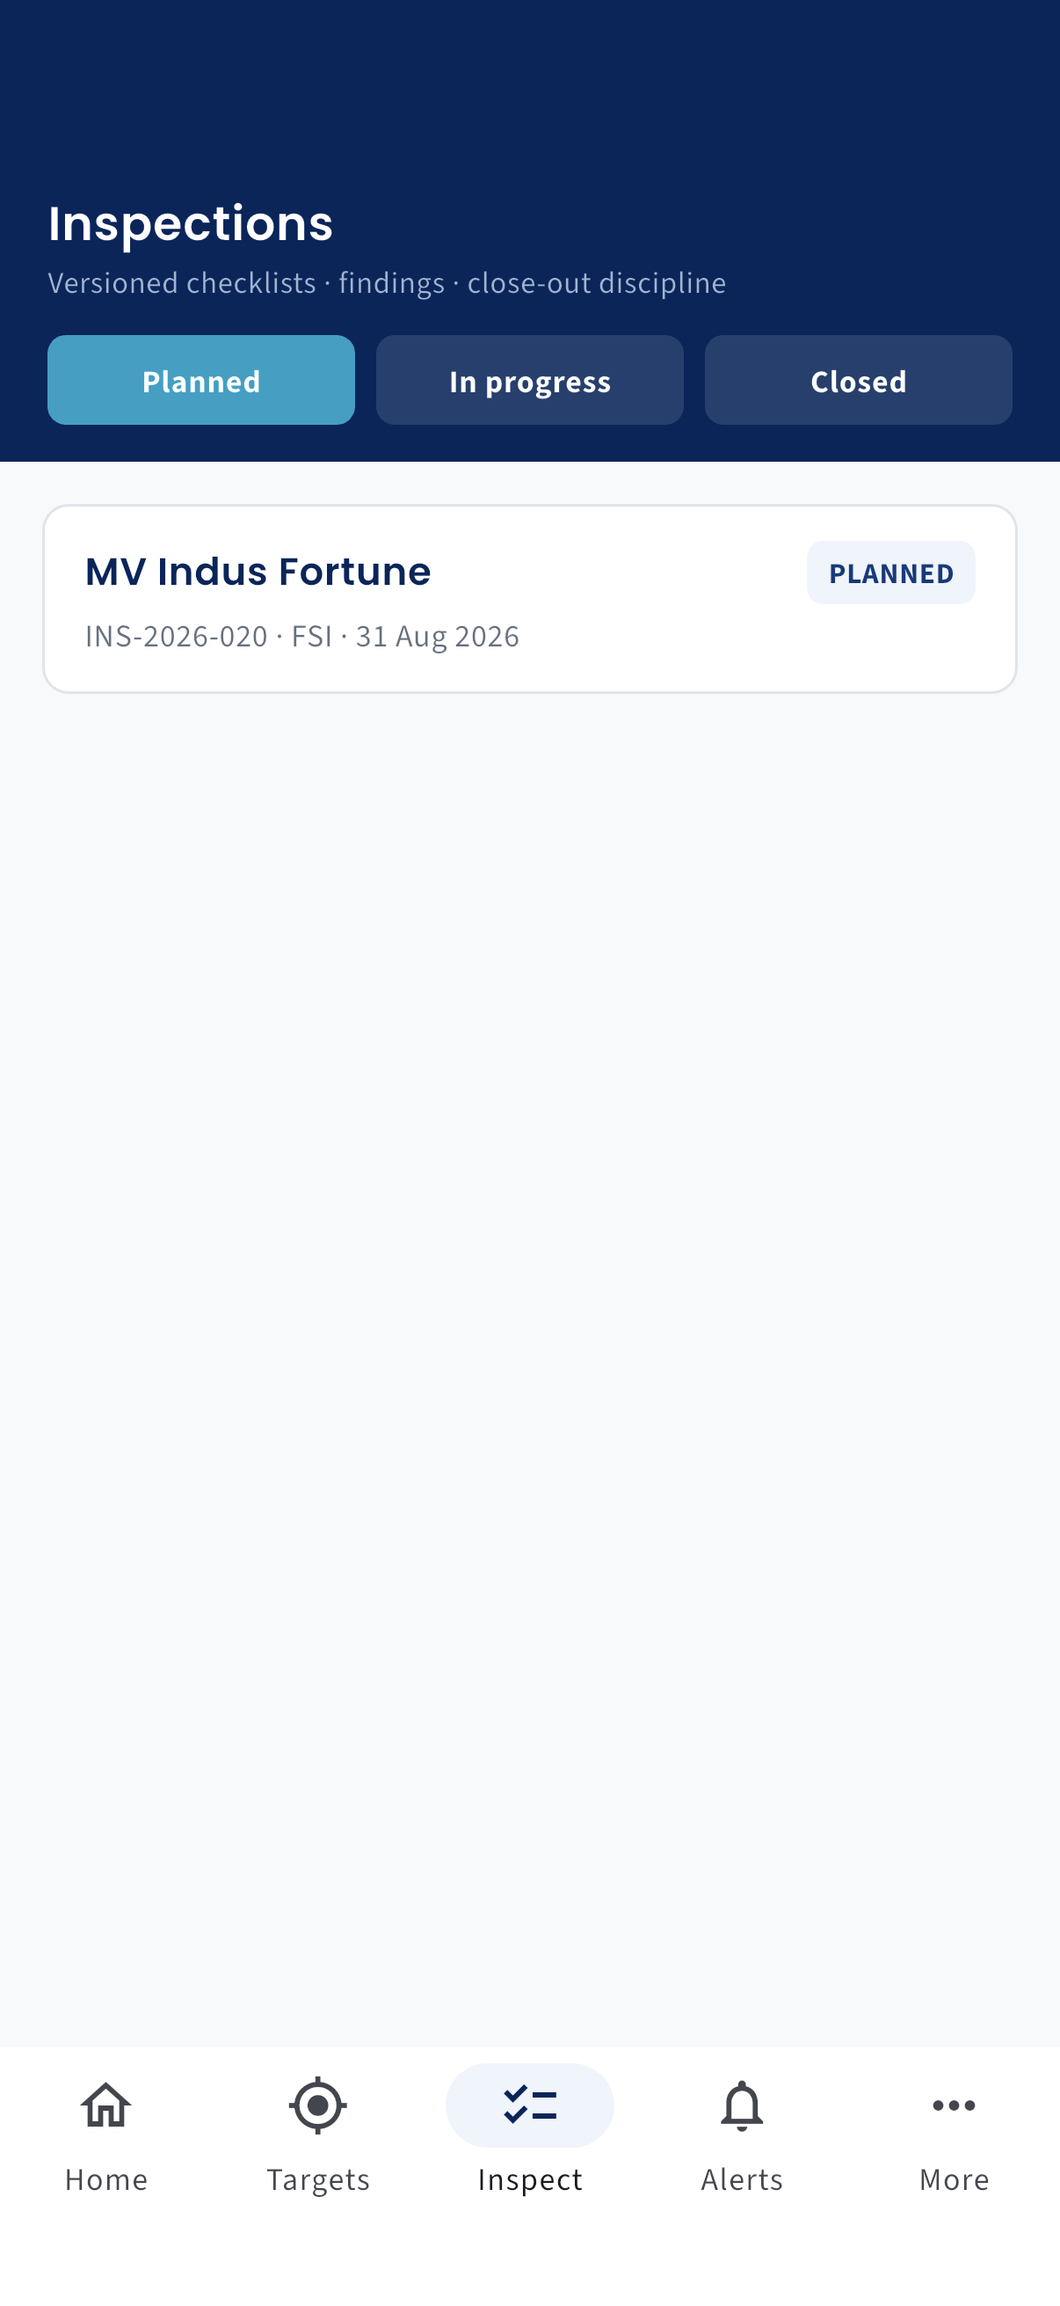
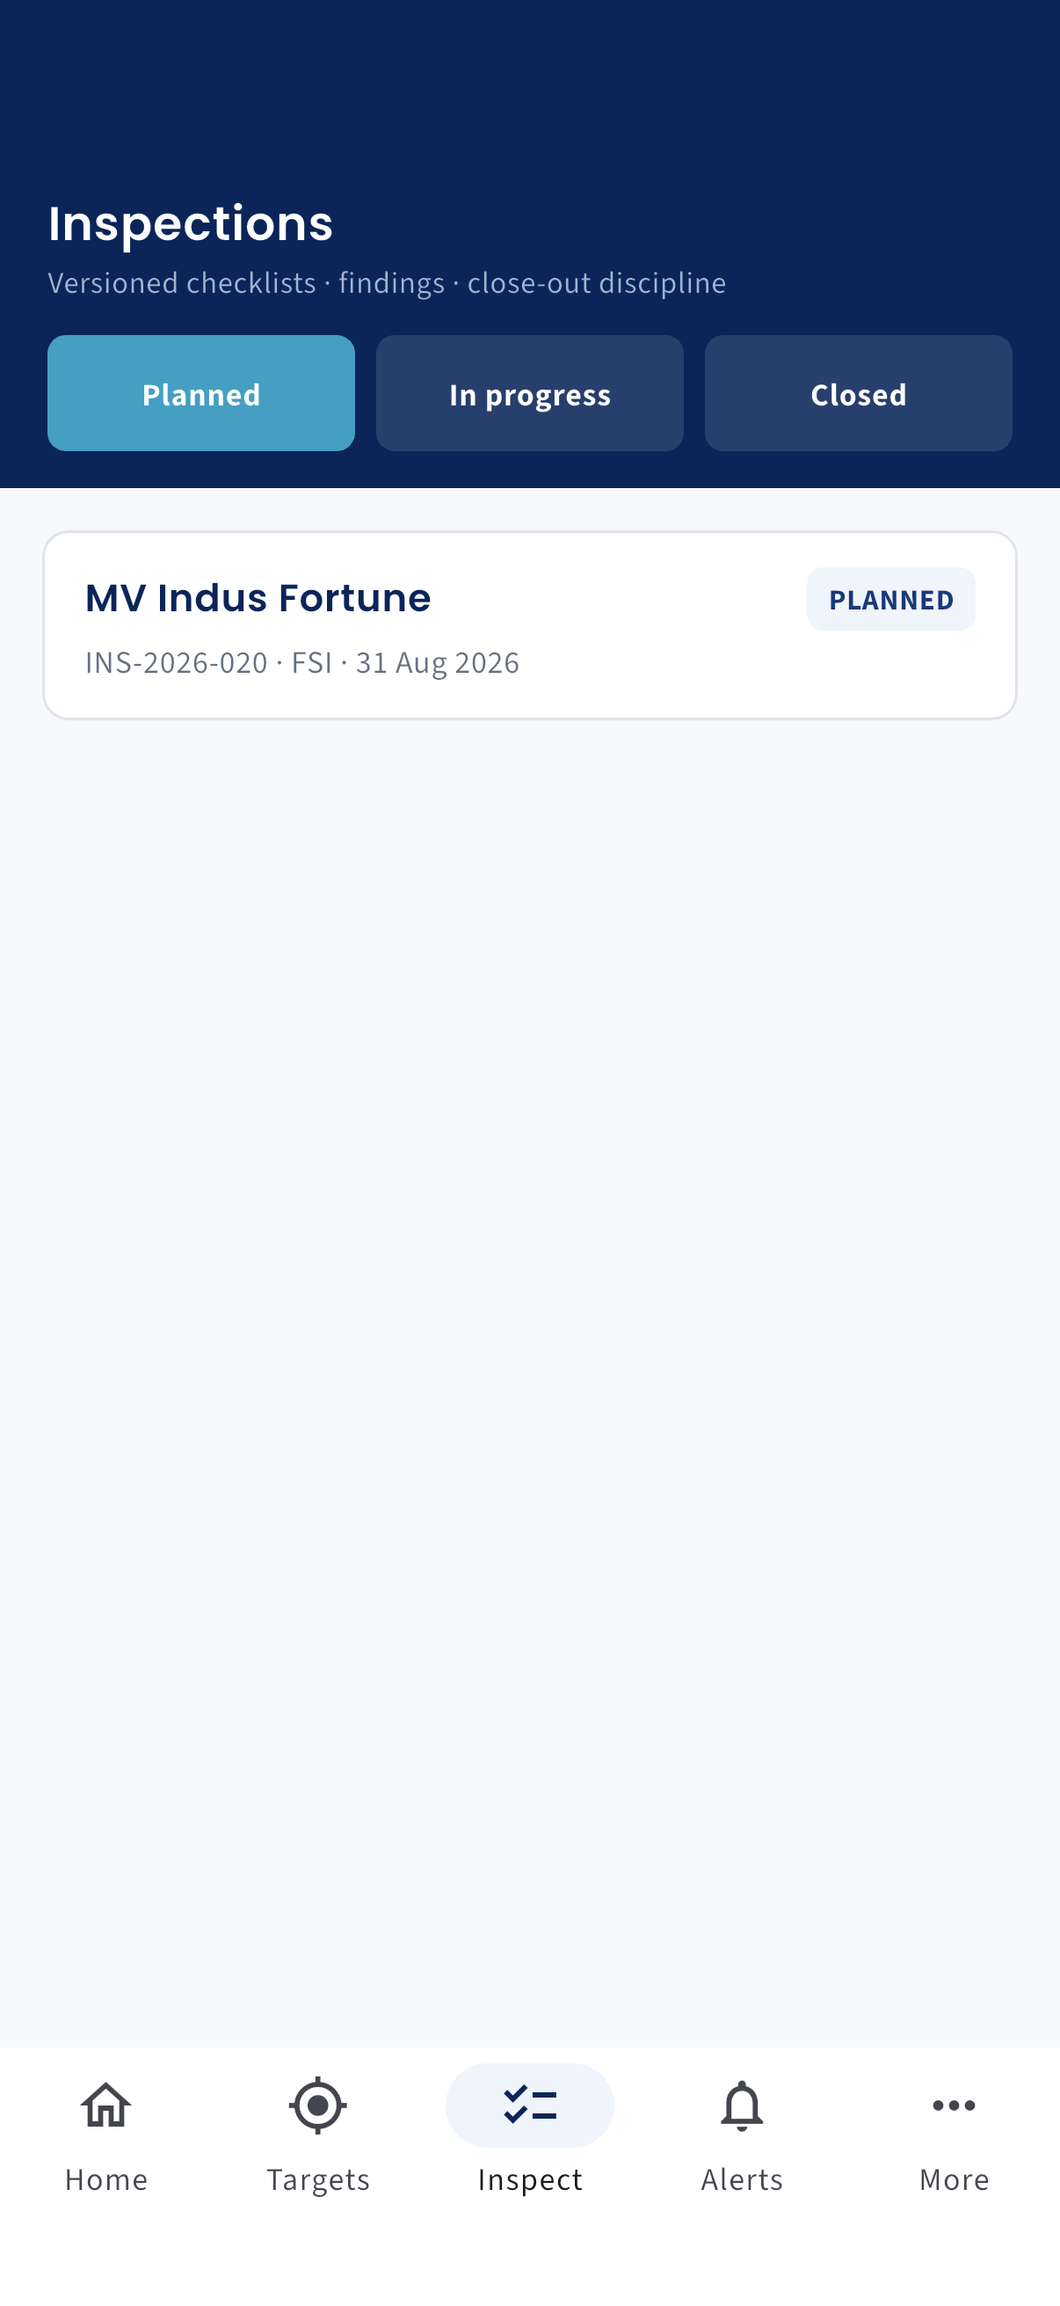
Security + accessibility hardening from the SAST/DAST/WCAG audit
Mobile app (SAST + WCAG 2.1 AA):
- Cleartext base URL gated to debug builds; production requires an https
  API_BASE via --dart-define. Android network-security-config: TLS-only
  release, dev hosts permitted only in debug. Demo password no longer
  prefilled.
- API client: single-flight JWT refresh (concurrent 401s share one attempt
  so a rotated refresh token can't force a spurious logout); path segments
  percent-encoded.
- Contrast: status-chip text now uses AA on-tint tokens (amber/green/red),
  cyan text labels moved to cyan700, hint text to gray500, input borders to
  a 3:1 boundary token. Hit targets raised to 44pt (checklist segments,
  filter pills). Tappable cards and the AI badge exposed to screen readers;
  text scaling clamped to 1.3x.

Platform API (DAST — object-level authorization):
- serviceController: applicant roles are now scoped to their own requests on
  GET /services/requests regardless of the mine param, and GET
  /services/requests/:id 404s a record the caller doesn't own — staff
  assessors (services.assess) are unaffected. Verified: agent list 55->6,
  foreign read 200->404, surveyor still sees all 55.
- invoiceController: documented the remaining invoice-list scoping gap (needs
  a user->organisation data-model link; the client already passes filters).

12/12 integration tests still green on the simulator after the changes.

Changed region(s): [[0.0, 0.1545, 1.0, 0.3089], [0.767, 0.2471, 0.8897, 0.278]]

diff --git a/mobile-flutter/lib/widgets.dart b/mobile-flutter/lib/widgets.dart
@@ -94,11 +94,18 @@ class StatTile extends StatelessWidget {
 }
 
 class MobCard extends StatelessWidget {
-  const MobCard({super.key, required this.child, this.onTap, this.borderColor, this.padding});
+  const MobCard(
+      {super.key,
+      required this.child,
+      this.onTap,
+      this.borderColor,
+      this.padding,
+      this.semanticLabel});
   final Widget child;
   final VoidCallback? onTap;
   final Color? borderColor;
   final EdgeInsets? padding;
+  final String? semanticLabel;
 
   @override
   Widget build(BuildContext context) {
@@ -113,9 +120,13 @@ class MobCard extends StatelessWidget {
       child: child,
     );
     if (onTap == null) return card;
-    return Material(
-      color: Colors.transparent,
-      child: InkWell(borderRadius: BorderRadius.circular(10), onTap: onTap, child: card),
+    return Semantics(
+      button: true,
+      label: semanticLabel,
+      child: Material(
+        color: Colors.transparent,
+        child: InkWell(borderRadius: BorderRadius.circular(10), onTap: onTap, child: card),
+      ),
     );
   }
 }
@@ -150,9 +161,9 @@ class StatusChip extends StatelessWidget {
     final (bg, fg) = switch (tone) {
       ChipTone.info => (Mob.navy50, Mob.navy700),
       ChipTone.ai => (Mob.cyan50, Mob.cyan700),
-      ChipTone.success => (Mob.green50, Mob.green600),
-      ChipTone.warning => (Mob.amber50, Mob.amber600),
-      ChipTone.danger => (Mob.red50, Mob.red600),
+      ChipTone.success => (Mob.green50, Mob.greenOnTint),
+      ChipTone.warning => (Mob.amber50, Mob.amberOnTint),
+      ChipTone.danger => (Mob.red50, Mob.redOnTint),
       ChipTone.neutral => (Mob.gray100, Mob.gray500),
     };
     return Container(
@@ -244,10 +255,13 @@ class AiCard extends StatelessWidget {
       child: Row(
         crossAxisAlignment: CrossAxisAlignment.start,
         children: [
-          Container(
-            width: 26, height: 26,
-            decoration: BoxDecoration(color: Mob.cyan600, borderRadius: BorderRadius.circular(6)),
-            child: const Icon(Icons.auto_awesome, size: 14, color: Colors.white),
+          Semantics(
+            label: 'AI-generated',
+            child: Container(
+              width: 26, height: 26,
+              decoration: BoxDecoration(color: Mob.cyan600, borderRadius: BorderRadius.circular(6)),
+              child: const Icon(Icons.auto_awesome, size: 14, color: Colors.white),
+            ),
           ),
           const SizedBox(width: 10),
           Expanded(child: child),

diff --git a/mobile-flutter/lib/api/api_client.dart b/mobile-flutter/lib/api/api_client.dart
@@ -26,6 +26,7 @@ class ApiClient {
   final String baseUrl;
   String? _token;
   String? _refreshToken;
+  Future<bool>? _refreshing;
 
   /// Called whenever a login/refresh returns a fresh user payload.
   void Function(Map<String, dynamic> user)? onUser;
@@ -35,8 +36,20 @@ class ApiClient {
 
   bool get hasSession => _token != null;
 
+  /// Production base is injected at build time (`--dart-define=API_BASE=...`,
+  /// which MUST be https). Only debug builds fall back to the local dev API
+  /// over cleartext.
   static String defaultBaseUrl() {
-    // The Android emulator reaches the host machine via 10.0.2.2.
+    const configured = String.fromEnvironment('API_BASE');
+    if (configured.isNotEmpty) return configured;
+    assert(() {
+      return true;
+    }());
+    if (!kDebugMode) {
+      throw StateError(
+          'API_BASE must be provided (https) for non-debug builds — '
+          'the cleartext localhost fallback is debug-only.');
+    }
     if (!kIsWeb && Platform.isAndroid) return 'http://10.0.2.2:5200/api';
     return 'http://127.0.0.1:5200/api';
   }
@@ -46,8 +59,17 @@ class ApiClient {
         if (_token != null) 'Authorization': 'Bearer $_token',
       };
 
-  Uri _uri(String path, [Map<String, String>? query]) =>
-      Uri.parse('$baseUrl$path').replace(queryParameters: query);
+  Uri _uri(String path, [Map<String, String>? query]) {
+    // Percent-encode each dynamic path segment so an unexpected id value
+    // (containing '/', '?', '#', '..') cannot steer the request path.
+    final encoded = path
+        .split('/')
+        .map((seg) => seg.contains(':') || seg.isEmpty
+            ? seg
+            : Uri.encodeComponent(Uri.decodeComponent(seg)))
+        .join('/');
+    return Uri.parse('$baseUrl$encoded').replace(queryParameters: query);
+  }
 
   Future<Map<String, dynamic>> login(String email, String password) async {
     final data = await _request('POST', '/auth/login',
@@ -68,7 +90,13 @@ class ApiClient {
     if (user is Map<String, dynamic>) onUser?.call(user);
   }
 
-  Future<bool> _tryRefresh() async {
+  /// Single-flight: concurrent 401s share one refresh attempt so a rotated
+  /// refresh token cannot make a losing racer tear down a just-renewed session.
+  Future<bool> _tryRefresh() {
+    return _refreshing ??= _doRefresh().whenComplete(() => _refreshing = null);
+  }
+
+  Future<bool> _doRefresh() async {
     final rt = _refreshToken;
     if (rt == null) return false;
     try {

diff --git a/portal/backend/src/controllers/serviceController.js b/portal/backend/src/controllers/serviceController.js
@@ -9,6 +9,7 @@ const { REQUEST_TRANSITIONS } = require('../config/constants');
 const { ApiError, ok, created } = require('../utils/respond');
 const { parseQuery, searchFilter } = require('../utils/paginate');
 const { audit } = require('../utils/audit');
+const { hasPerm } = require('../domain/rbac');
 const { nextNumber } = require('../utils/numbering');
 const S = require('../domain/licenceSubjects');
 const { finaliseIssue } = require('../domain/instrumentIssue');
@@ -75,7 +76,13 @@ exports.list = async (req, res) => {
     if (req.query[f]) filter[f] = req.query[f];
   }
   if (req.query.domain) filter.domain = Number(req.query.domain);
-  if (req.query.mine === 'true') filter['applicant.userId'] = String(req.user.id);
+  // Object-level authorization: a caller who cannot assess (an applicant role)
+  // only ever sees their own applications, regardless of the mine param. Staff
+  // assessors may list across applicants and may opt into mine=true.
+  const canAssess = hasPerm(req.user.perms, 'services.assess');
+  if (!canAssess || req.query.mine === 'true') {
+    filter['applicant.userId'] = String(req.user.id);
+  }
   if (req.query.open === 'true') filter.status = { $in: ['SUBMITTED', 'UNDER_ASSESSMENT', 'INFO_REQUESTED'] };
   if (req.query.breached === 'true') { filter.closedAt = null; filter.dueAt = { $lt: new Date() }; }
   const search = searchFilter(req.query.q, ['requestNo', 'applicant.name', 'subjectLabel', 'serviceName']);
@@ -93,6 +100,11 @@ exports.list = async (req, res) => {
 exports.get = async (req, res) => {
   const doc = await ServiceRequest.findById(req.params.id).populate('service').lean();
   if (!doc) throw new ApiError(404, 'Request not found');
+  // Direct-object-reference guard: an applicant may only read their own request.
+  const canAssess = hasPerm(req.user.perms, 'services.assess');
+  if (!canAssess && String(doc.applicant?.userId) !== String(req.user.id)) {
+    throw new ApiError(404, 'Request not found');
+  }
   doc.slaBreached = !!(doc.dueAt && !doc.closedAt && new Date(doc.dueAt) < new Date());
   ok(res, doc);
 };

diff --git a/mobile-flutter/lib/theme.dart b/mobile-flutter/lib/theme.dart
@@ -9,7 +9,7 @@ class Mob {
   static const navy800 = Color(0xFF00265D); // primary
   static const navy700 = Color(0xFF0A3A7D);
   static const navy50 = Color(0xFFEEF4FB);
-  static const cyan700 = Color(0xFF007A9B);
+  static const cyan700 = Color(0xFF007A9B); // 4.93:1 on white — cyan TEXT
   static const cyan600 = Color(0xFF00A0C6); // accent / AI
   static const cyan100 = Color(0xFFD3F0F8);
   static const cyan50 = Color(0xFFEAF8FC);
@@ -24,13 +24,17 @@ class Mob {
   static const gray100 = Color(0xFFEEF1F5);
   static const gray50 = Color(0xFFF7F9FB);
 
-  // Semantic
+  // Semantic — 600 = surface/icon fill; onTint = AA text on the 50 tint
   static const green600 = Color(0xFF1E8E5A);
   static const green50 = Color(0xFFE7F6EE);
+  static const greenOnTint = Color(0xFF12703F); // 5.4:1 on green50
   static const amber600 = Color(0xFFB9770E);
   static const amber50 = Color(0xFFFDF3E1);
+  static const amberOnTint = Color(0xFF8A5800); // 4.9:1 on amber50
   static const red600 = Color(0xFFC43D3D);
   static const red50 = Color(0xFFFBEAEA);
+  static const redOnTint = Color(0xFFB02525); // 5.1:1 on red50
+  static const inputBorder = Color(0xFF8792A3); // 3:1 non-text boundary
 
   // On-navy
   static const onNavyMuted = Color(0xFF9FB4D4);
@@ -73,14 +77,14 @@ ThemeData mobTheme() {
       ),
       enabledBorder: OutlineInputBorder(
         borderRadius: BorderRadius.circular(8),
-        borderSide: const BorderSide(color: Mob.gray300),
+        borderSide: const BorderSide(color: Mob.inputBorder),
       ),
       focusedBorder: OutlineInputBorder(
         borderRadius: BorderRadius.circular(8),
         borderSide: const BorderSide(color: Mob.cyan600, width: 1.5),
       ),
       labelStyle: ss(13, c: Mob.gray500),
-      hintStyle: ss(13, c: Mob.gray400),
+      hintStyle: ss(13, c: Mob.gray500),
     ),
     snackBarTheme: SnackBarThemeData(
       backgroundColor: Mob.navy800,

diff --git a/mobile-flutter/lib/authority/dossier_screen.dart b/mobile-flutter/lib/authority/dossier_screen.dart
@@ -99,7 +99,7 @@ class _DossierScreenState extends State<DossierScreen> {
                       child: Column(
                         crossAxisAlignment: CrossAxisAlignment.start,
                         children: [
-                          Text('SUMMARY', style: pop(12, c: Mob.cyan600).copyWith(letterSpacing: .8)),
+                          Text('SUMMARY', style: pop(12, c: Mob.cyan700).copyWith(letterSpacing: .8)),
                           const SizedBox(height: 7),
                           Text(
                             _summary(v, d.risk, expired, expiring, inspections),
@@ -114,7 +114,7 @@ class _DossierScreenState extends State<DossierScreen> {
                         child: Column(
                           crossAxisAlignment: CrossAxisAlignment.start,
                           children: [
-                            Text('FOCUS AREAS', style: pop(12, c: Mob.cyan600).copyWith(letterSpacing: .8)),
+                            Text('FOCUS AREAS', style: pop(12, c: Mob.cyan700).copyWith(letterSpacing: .8)),
                             const SizedBox(height: 8),
                             for (final (i, f) in factors.take(4).indexed)
                               Padding(
@@ -143,7 +143,7 @@ class _DossierScreenState extends State<DossierScreen> {
                         child: Column(
                           crossAxisAlignment: CrossAxisAlignment.start,
                           children: [
-                            Text('INSPECTION HISTORY', style: pop(12, c: Mob.cyan600).copyWith(letterSpacing: .8)),
+                            Text('INSPECTION HISTORY', style: pop(12, c: Mob.cyan700).copyWith(letterSpacing: .8)),
                             const SizedBox(height: 6),
                             for (final insp in inspections.take(5))
                               Padding(

diff --git a/mobile-flutter/lib/customer/track_screen.dart b/mobile-flutter/lib/customer/track_screen.dart
@@ -122,7 +122,7 @@ class _TrackScreenState extends State<TrackScreen> {
                             crossAxisAlignment: CrossAxisAlignment.start,
                             children: [
                               Text('ELIGIBILITY CHECKS',
-                                  style: pop(12, c: Mob.cyan600).copyWith(letterSpacing: .8)),
+                                  style: pop(12, c: Mob.cyan700).copyWith(letterSpacing: .8)),
                               const SizedBox(height: 8),
                               for (final c in checks)
                                 Padding(
@@ -162,7 +162,7 @@ class _TrackScreenState extends State<TrackScreen> {
                             children: [
                               Row(children: [
                                 Text('DECISION',
-                                    style: pop(12, c: Mob.cyan600).copyWith(letterSpacing: .8)),
+                                    style: pop(12, c: Mob.cyan700).copyWith(letterSpacing: .8)),
                                 const Spacer(),
                                 if (decision['automated'] == true)
                                   const StatusChip('ZERO-TOUCH · AGENT A3', ChipTone.ai),
@@ -183,7 +183,7 @@ class _TrackScreenState extends State<TrackScreen> {
                           crossAxisAlignment: CrossAxisAlignment.start,
                           children: [
                             Text('TIMELINE',
-                                style: pop(12, c: Mob.cyan600).copyWith(letterSpacing: .8)),
+                                style: pop(12, c: Mob.cyan700).copyWith(letterSpacing: .8)),
                             const SizedBox(height: 10),
                             for (final (i, h) in history.reversed.indexed)
                               _TimelineRow(

diff --git a/mobile-flutter/lib/authority/inspections_screen.dart b/mobile-flutter/lib/authority/inspections_screen.dart
@@ -72,7 +72,7 @@ class _InspectionsScreenState extends State<InspectionsScreen> {
                           _refresh();
                         },
                         child: Container(
-                          height: 34,
+                          height: 44,
                           alignment: Alignment.center,
                           child: Text(label,
                               style: ss(12, w: FontWeight.w700, c: Colors.white)),
@@ -108,6 +108,7 @@ class _InspectionsScreenState extends State<InspectionsScreen> {
                     final result = (insp['result'] as String?) ?? '';
                     final findings = (insp['findings'] as List?)?.length ?? 0;
                     return MobCard(
+                      semanticLabel: 'Open inspection ${vessel['name'] ?? insp['number']}',
                       onTap: () => Navigator.of(context)
                           .push(MaterialPageRoute(
                             builder: (_) => InspectionRunScreen(

diff --git a/mobile-flutter/lib/screens/launcher.dart b/mobile-flutter/lib/screens/launcher.dart
@@ -37,7 +37,7 @@ class _LauncherScreenState extends State<LauncherScreen> {
   ];
 
   final _email = TextEditingController();
-  final _password = TextEditingController(text: 'Demo@2026');
+  final _password = TextEditingController();
   String _app = 'authority';
   bool _busy = false;
   String? _error;
@@ -92,7 +92,7 @@ class _LauncherScreenState extends State<LauncherScreen> {
                 crossAxisAlignment: CrossAxisAlignment.stretch,
                 children: [
                   Text('MARITIME TRANSFORMATION PROGRAMME',
-                      style: pop(11, c: Mob.cyan600).copyWith(letterSpacing: 1.2)),
+                      style: pop(11, c: Mob.cyan700).copyWith(letterSpacing: 1.2)),
                   const SizedBox(height: 4),
                   Text('Maritime Mobile', style: pop(24, w: FontWeight.w700)),
                   Text('Two apps over the Unified Maritime Platform — pick a side, sign in with a seeded identity.',

diff --git a/portal/backend/src/controllers/invoiceController.js b/portal/backend/src/controllers/invoiceController.js
@@ -7,6 +7,14 @@ const { parseQuery, searchFilter } = require('../utils/paginate');
 const { audit } = require('../utils/audit');
 const { nextNumber } = require('../utils/numbering');
 
+// SECURITY NOTE (tracked): object-level authorization on the invoice list is a
+// data-model dependency. Invoices carry billTo.name (a free-text party) and a
+// portCall.agentName, but the User model has no organisation/company link, so
+// there is no reliable key to scope a customer to "their" invoices server-side.
+// The mobile client passes every filter the API offers (status, vessel); a
+// correct fix requires adding a user->organisation relation and filtering
+// non-staff callers to invoices billed to that organisation. Until then, the
+// unscoped list must be treated as staff-facing.
 exports.list = async (req, res) => {
   const { page, limit, skip, sort } = parseQuery(req.query, { defaultSort: '-createdAt' });
   const filter = {};

diff --git a/mobile-flutter/lib/screens/more_screen.dart b/mobile-flutter/lib/screens/more_screen.dart
@@ -70,7 +70,7 @@ class _MoreScreenState extends State<MoreScreen> {
                 child: Column(
                   crossAxisAlignment: CrossAxisAlignment.start,
                   children: [
-                    Text('ACCESS', style: pop(12, c: Mob.cyan600).copyWith(letterSpacing: .8)),
+                    Text('ACCESS', style: pop(12, c: Mob.cyan700).copyWith(letterSpacing: .8)),
                     const SizedBox(height: 7),
                     Text(
                       s.perms.contains('*')

diff --git a/mobile-flutter/lib/customer/services_screen.dart b/mobile-flutter/lib/customer/services_screen.dart
@@ -61,6 +61,7 @@ class _ServicesScreenState extends State<ServicesScreen> {
                     const SizedBox(height: 8),
                     for (final svc in (dom['services'] as List).cast<Map<String, dynamic>>()) ...[
                       MobCard(
+                        semanticLabel: 'Apply for ${svc['name']}',
                         onTap: !s.can('services.apply')
                             ? null
                             : () => Navigator.of(context).push(MaterialPageRoute(

diff --git a/mobile-flutter/lib/customer/fleet_screen.dart b/mobile-flutter/lib/customer/fleet_screen.dart
@@ -76,6 +76,7 @@ class _FleetScreenState extends State<FleetScreen> {
                     final v = rows[i];
                     final registry = (v['registry'] as Map?) ?? const {};
                     return MobCard(
+                      semanticLabel: 'Open certificate wallet for ${v['name']}',
                       onTap: () => Navigator.of(context).push(MaterialPageRoute(
                         builder: (_) => VesselWalletScreen(vesselId: '${v['_id']}'),
                       )),
